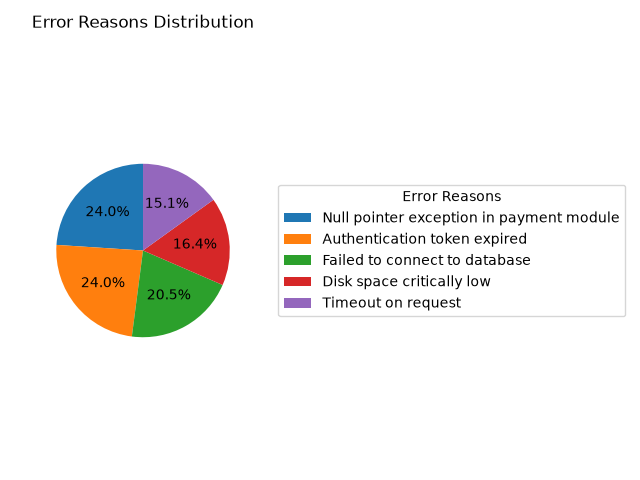
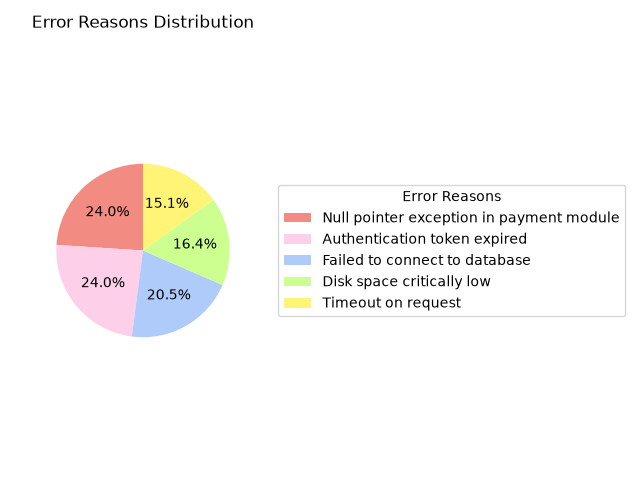
Update chart colors to pastel palette

Changed region(s): [[0.0625, 0.3438, 0.375, 0.7188], [0.4375, 0.4375, 0.5, 0.6562]]

diff --git a/analyzer.py b/analyzer.py
@@ -72,7 +72,7 @@ def save_chart(errors_by_date, output_file = "errors_chart.png"):
     """Create and save a bar chart of errors per day."""
     dates = sorted(errors_by_date.keys())
     counts = [errors_by_date[date] for date in dates]
-    plt.bar(dates, counts, color = "crimson")
+    plt.bar(dates, counts, color = "#F28B82")
     plt.xlabel("Date")
     plt.ylabel("Number of Errors")
     plt.title("Errors per Day")
@@ -90,7 +90,8 @@ def save_pie_chart(error_messages, output_file = "error_reason_pie.png"):
     sizes = list(message_counts.values())
     
     plt.figure()
-    wedges, texts, autotexts = plt.pie(sizes, autopct="%1.1f%%", startangle=90)
+    pastel_colors = ["#F28B82", "#FDCFE8", "#AECBFA", "#CCFF90", "#FFF475", "#D7AEFB"]
+    wedges, texts, autotexts = plt.pie(sizes, autopct="%1.1f%%", startangle=90, colors=pastel_colors[:len(labels)])
     plt.axis('equal') 
     plt.title("Error Reasons Distribution")
     plt.legend(wedges, labels, title="Error Reasons", loc="center left", bbox_to_anchor=(1, 0.5))
